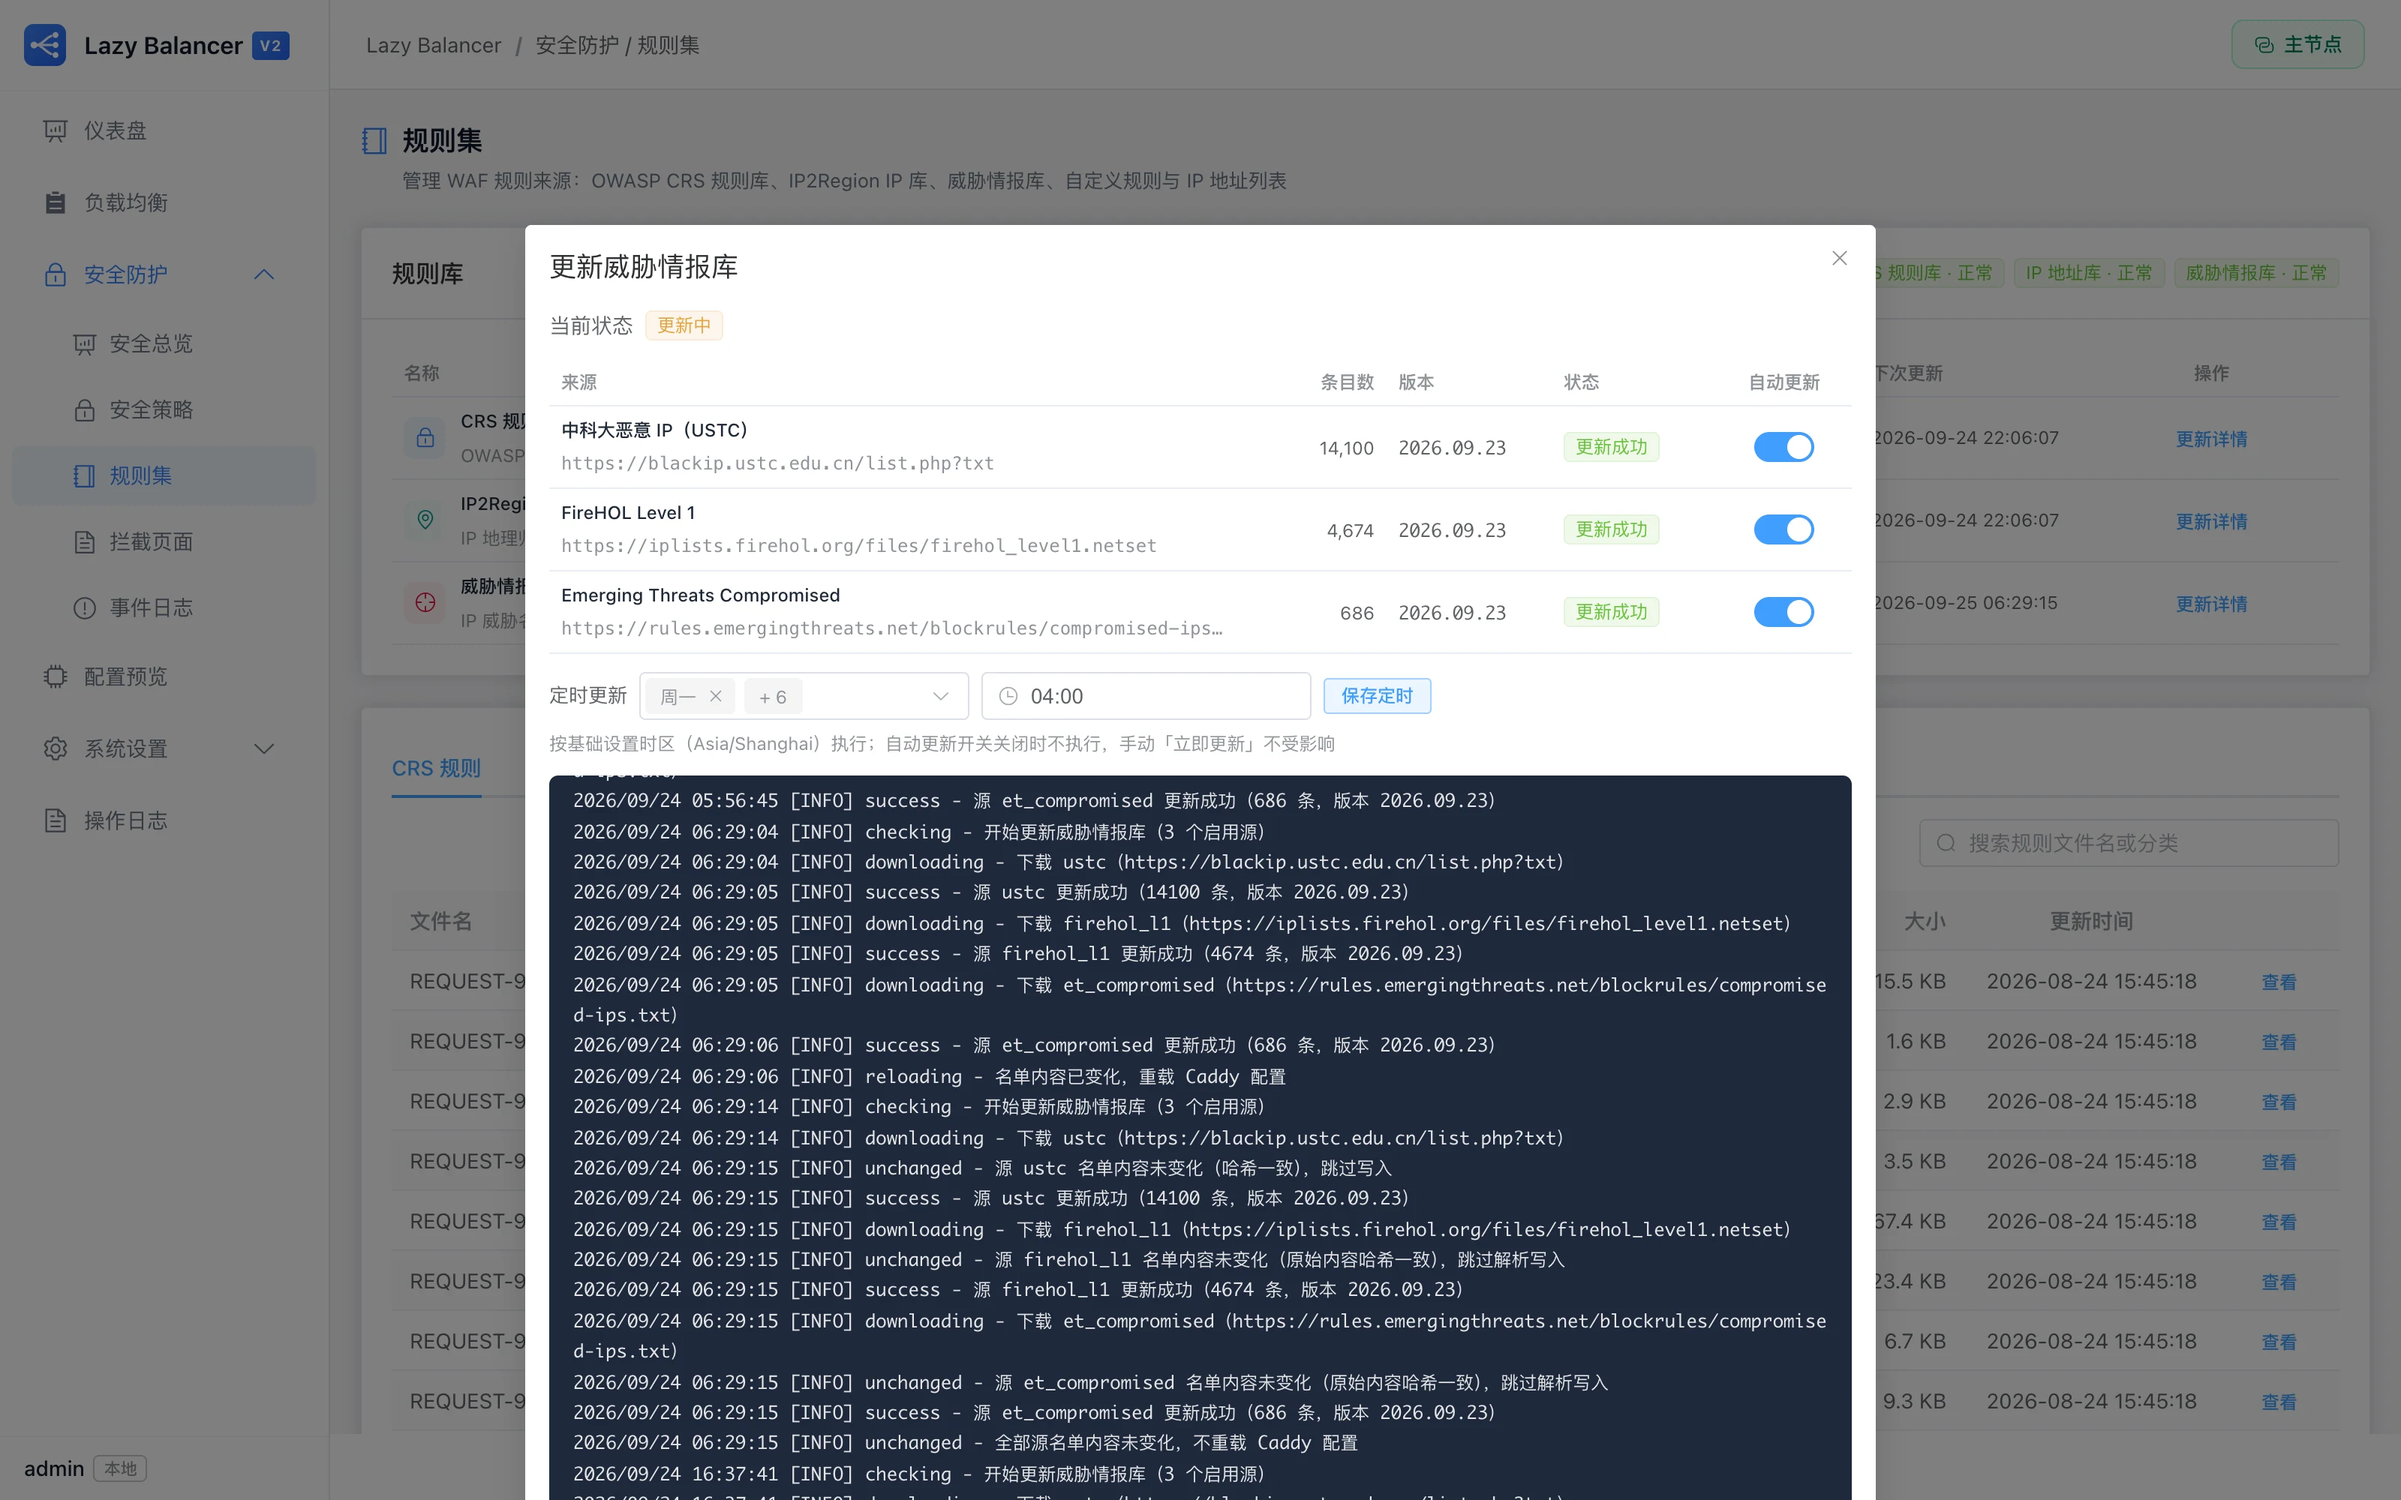
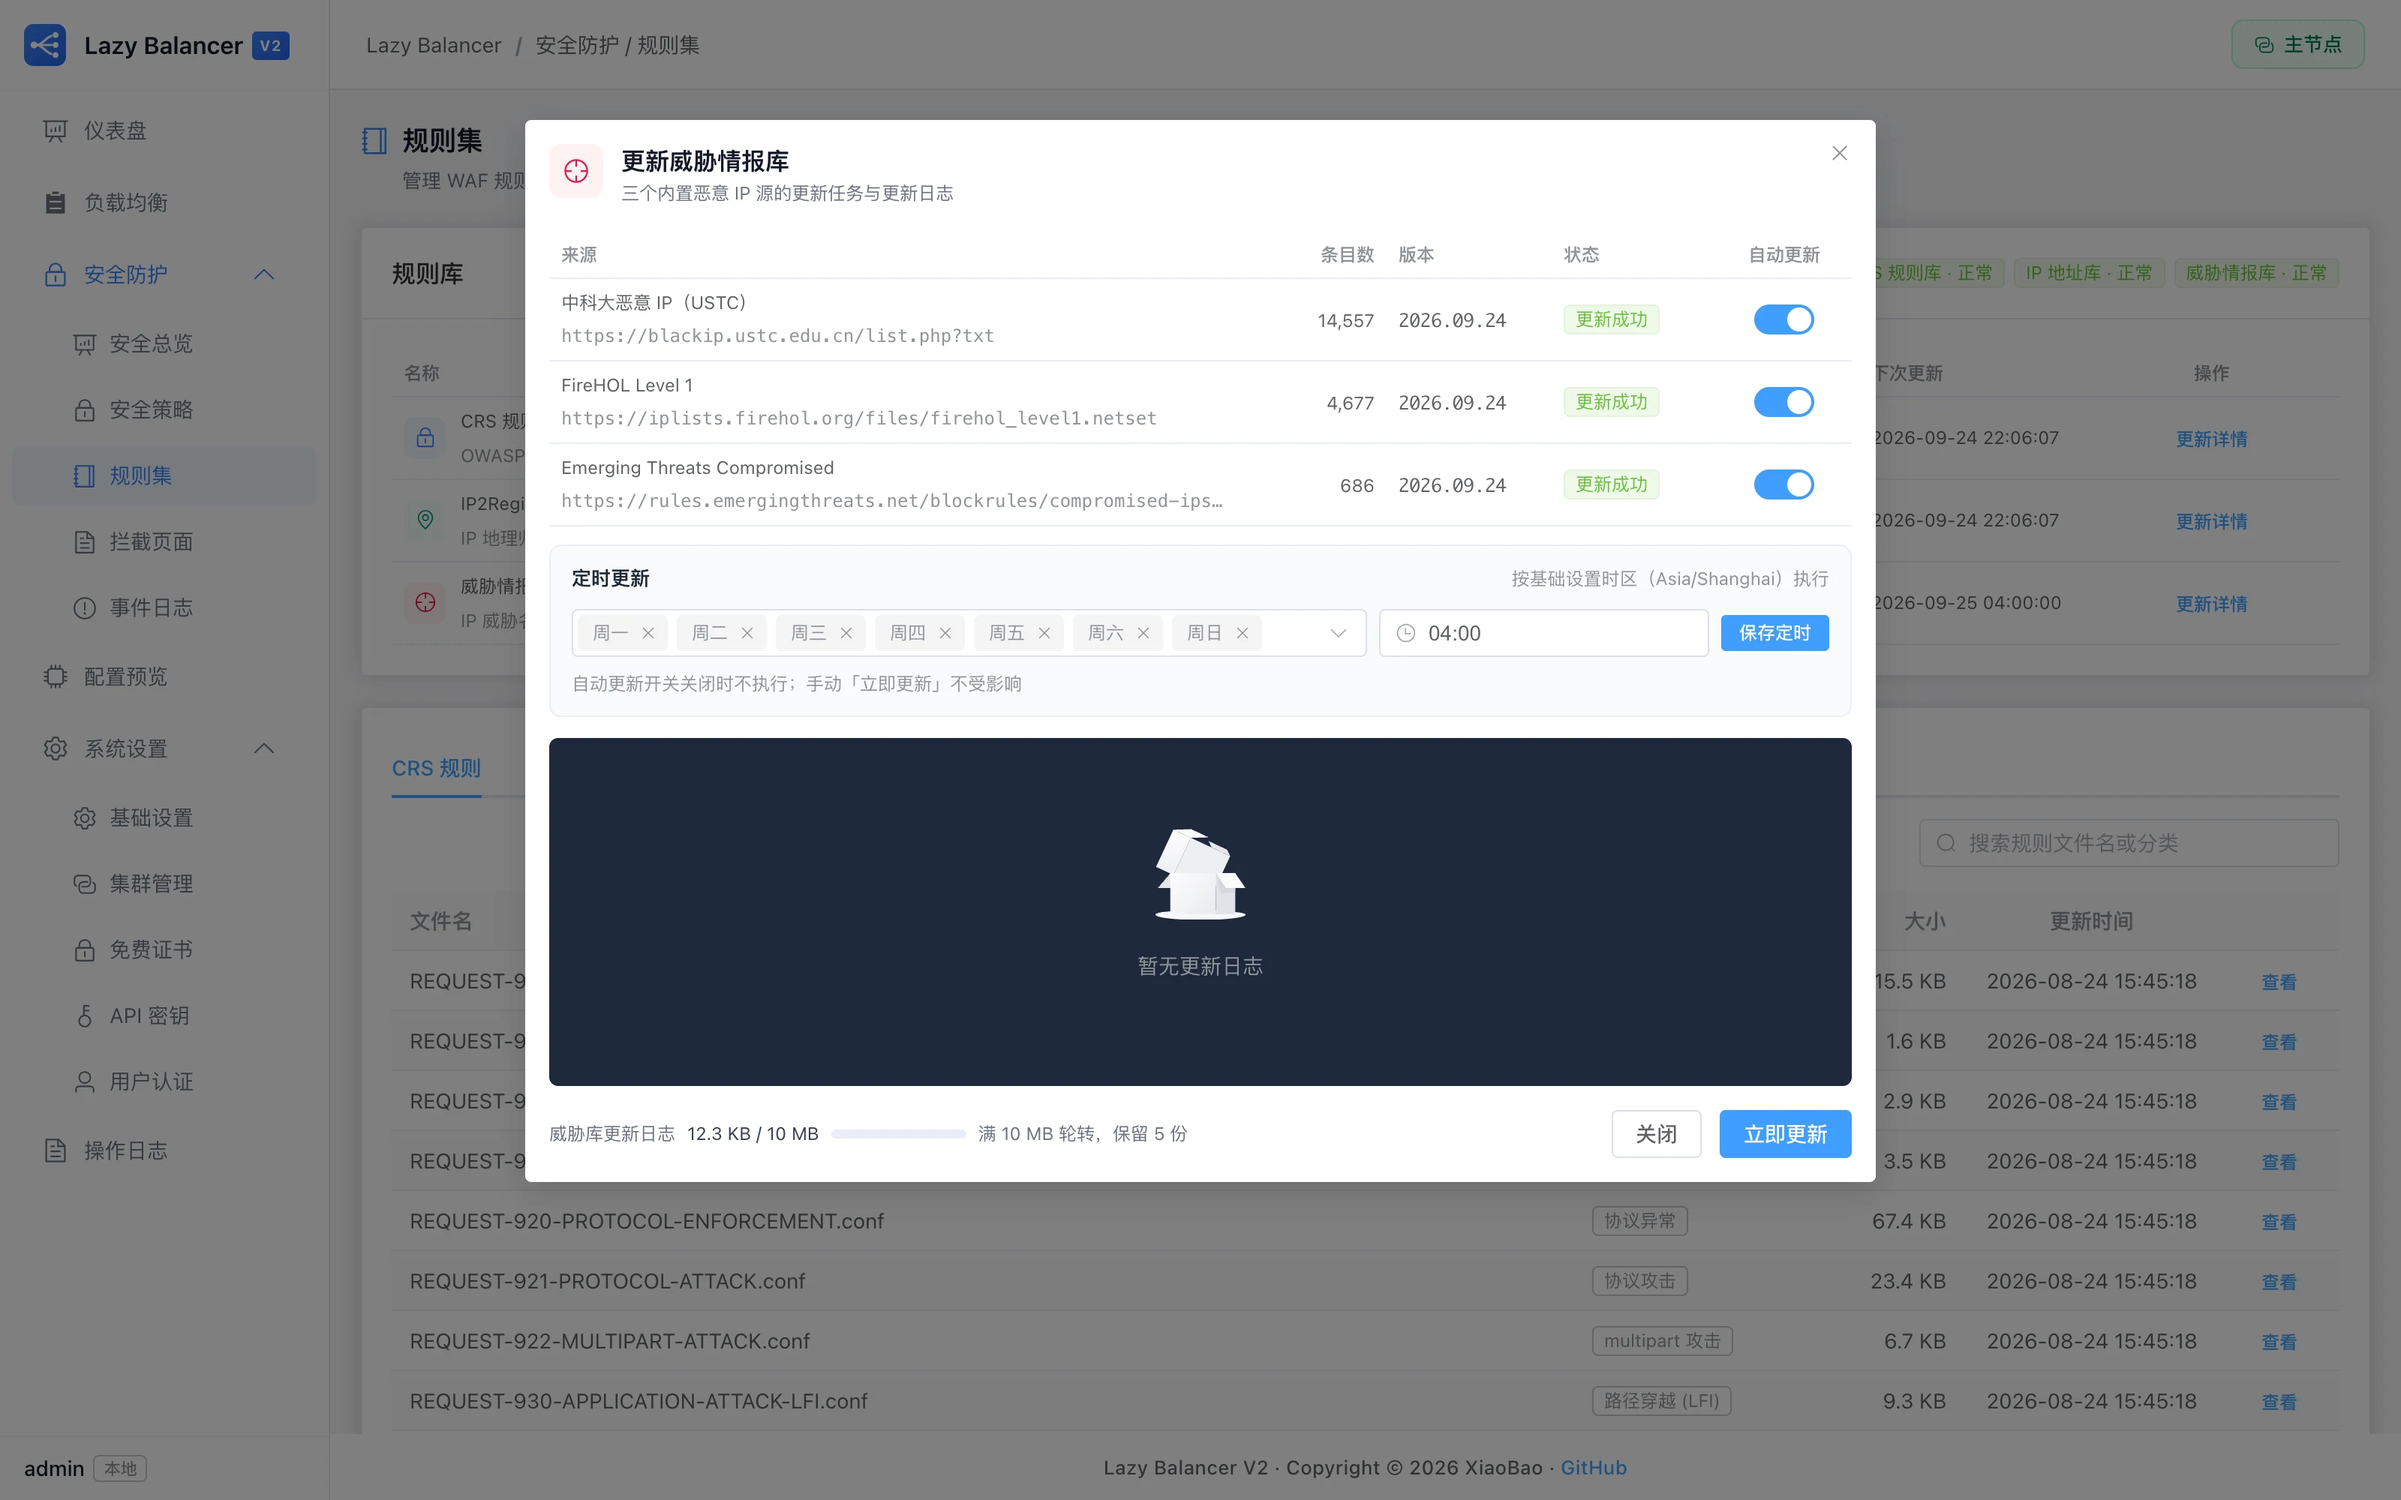
hero 文案重点重构 + 多来源威胁库入描述 + 手册去 TZ 环境变量 + 威胁库弹框新截图
- hero-sub：加粗收敛到产品能力（WAF 四态防护/ACME 自动证书/集群主从同步/
  128 个 MCP 工具），实现细节（Go/Alpine/58MB）降为正文；括号内补
  多来源威胁情报库
- WAF 特性卡与黑白名单卡补威胁情报库三源（USTC/FireHOL/ET 每日自动更新）
- docs.html 启动命令移除 TZ=Asia/Shanghai——时区由面板「基础设置 → 时区」
  统一控制（entrypoint 从数据库派生，环境变量冗余）
- shot-doc-threat 更新为新版弹框（图标+副标题头、定时更新卡片七天全显、
  紧凑日志区）

diff --git a/index.html b/index.html
@@ -463,10 +463,10 @@ var _hmt = _hmt || [];
   <div class="hero-badge"><span class="dot"></span>v2.3.2（阶段化安全流水线） · 双平台镜像 linux/amd64 · linux/arm64</div>
   <h1 class="hero-title">负载均衡，本应如此<br><span class="grad">简单而强大</span></h1>
   <p class="hero-sub">
-    基于 <b>Caddy</b> 的可视化负载均衡管理平台——<b>端到端 Go</b>、<b>Alpine 精简底座</b>、
-    <b>58 MB 起</b>的一体化镜像：WAF 四态防护、ACME 自动证书、集群主从同步、
-    <b>128 个 MCP 工具</b>的 AI 原生运维，一个二进制全部就绪。
-    企业级开箱：<b>OIDC 单点登录</b>、MFA 两步验证、全操作审计、多用户权限。
+    基于 <b>Caddy</b> 的可视化负载均衡管理平台——<b>WAF 四态防护</b>（OWASP CRS + 地域拦截 + 多来源威胁情报库）、
+    <b>ACME 自动证书</b>、<b>集群主从同步</b>，一个二进制全部就绪。
+    端到端 Go、Alpine 精简底座 58 MB 起；<b>128 个 MCP 工具</b>的 AI 原生运维，
+    OIDC 单点登录、MFA 两步验证、全操作审计企业级开箱。
   </p>
   <div class="hero-actions">
     <a class="btn btn-primary" href="#start">立即部署 →</a>
@@ -546,7 +546,7 @@ var _hmt = _hmt || [];
     <div class="f-card reveal">
       <div class="f-icon"><svg viewBox="0 0 24 24" fill="none" stroke="#38e1ff" stroke-width="1.8" stroke-linecap="round" stroke-linejoin="round"><path d="M12 3l8 3.5v5c0 5-3.4 8.4-8 9.5-4.6-1.1-8-4.5-8-9.5v-5L12 3z"/><path d="M9 12l2 2 4-4.5"/></svg></div>
       <h3>企业级 WAF</h3>
-      <p>Coraza v3 + OWASP CRS,关闭/仅自定义/检测/拦截四态。IP 黑白名单、信任名单、GeoIP 地域控制、IP 级限流、自定义链式规则。</p>
+      <p>Coraza v3 + OWASP CRS,关闭/仅自定义/检测/拦截四态。IP 黑白名单（可引用多来源威胁情报库名单）、信任名单、GeoIP 地域控制、IP 级限流、自定义链式规则。</p>
     </div>
     <div class="f-card reveal">
       <div class="f-icon"><svg viewBox="0 0 24 24" fill="none" stroke="#8b5cf6" stroke-width="1.8" stroke-linecap="round" stroke-linejoin="round"><rect x="4" y="10" width="16" height="10" rx="2"/><path d="M8 10V7a4 4 0 0 1 8 0v3"/><circle cx="12" cy="15" r="1.4"/></svg></div>
@@ -660,7 +660,7 @@ var _hmt = _hmt || [];
     <div class="shield reveal">
       <div class="si">🚫</div>
       <h4>黑白名单</h4>
-      <p>按地址段精确放行或拒绝，支持引用共享地址列表</p>
+      <p>按地址段精确放行或拒绝，支持引用共享地址列表与内置威胁情报名单（USTC / FireHOL / ET 三源每日自动更新）</p>
     </div>
     <div class="shield reveal">
       <div class="si">🤝</div>

diff --git a/docs.html b/docs.html
@@ -350,15 +350,13 @@ footer { border-top: 1px solid rgba(255,255,255,0.06); padding: 34px 0 44px; }
       - ./certs:/app/certs      <span class="c"># 证书材料</span>
       - ./waf:/app/waf          <span class="c"># WAF 规则库与 IP 库</span>
       - ./backup:/app/backup    <span class="c"># 自动备份落盘</span>
-    environment:
-      - TZ=Asia/Shanghai
-    restart: unless-stopped
+    restart: unless-stopped   <span class="c"># 时区无需环境变量——面板「基础设置 → 时区」统一控制</span>
 <span class="k">volumes:</span>
   lb-data:</code></pre>
   <p>不用 compose 的话，一条 <code>docker run</code> 等价：</p>
   <pre><code>docker run -d --name lazy-balancer --network host --restart unless-stopped \
   -v lb-data:/app/data -v ./logs:/app/logs -v ./certs:/app/certs \
-  -v ./waf:/app/waf -v ./backup:/app/backup -e TZ=Asia/Shanghai \
+  -v ./waf:/app/waf -v ./backup:/app/backup \
   v55448330/lazy-balancer-v2:v2.3.2</code></pre>
   <div class="callout info"><b>端口说明。</b>80/443 是网站流量入口（Caddy），<b>8000 是管理面板</b>（浏览器访问 <code>https://&lt;服务器IP&gt;:8000</code>）。面板默认强制 HTTPS，首次访问接受一下自签证书即可。</div>
   <div class="callout info"><b>想要从节点（高可用）？</b>同样的镜像再起一个实例，面板里切换到「从节点」并指向主节点地址（如 <code>http://主节点IP:8000</code>）即可，详见第 6 章。</div>
